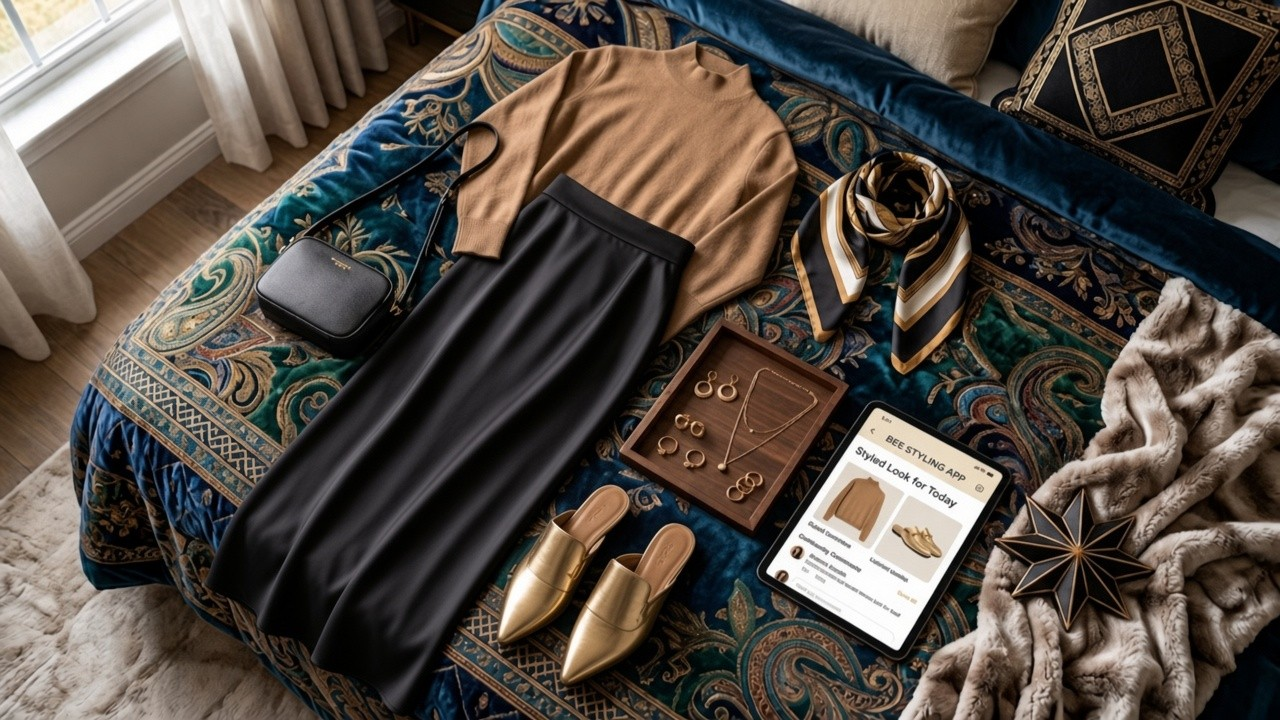
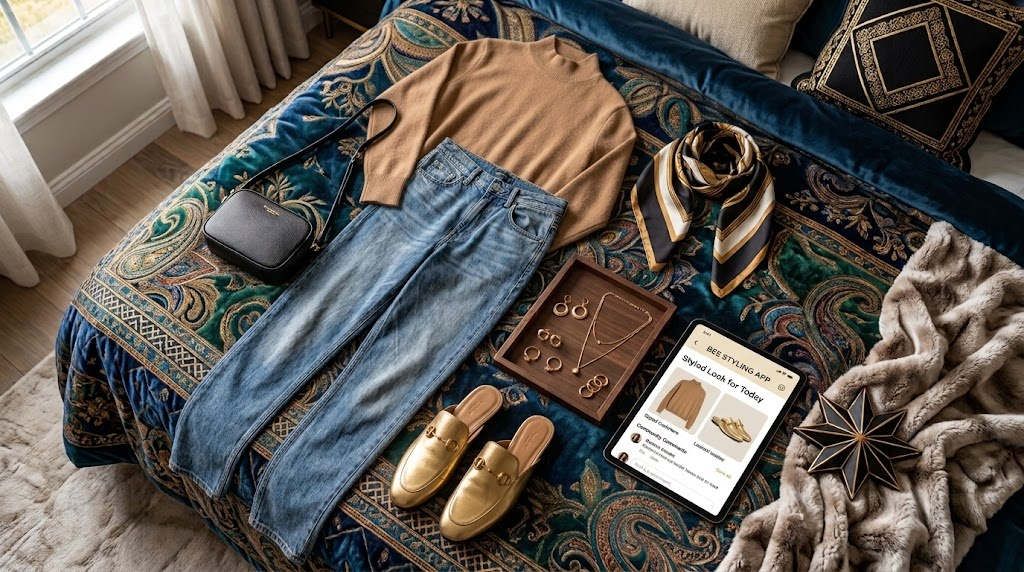
Fill the Bee card with the supplied photograph.
The picture is unchanged. It covers the whole card, and the liquid glass panel stays on the copy.

diff --git a/src/routes/index.tsx b/src/routes/index.tsx
@@ -36,7 +36,7 @@ const PRODUCTS = [
     href: "/app",
     cta: "Enter Bee",
     image: beeHoldingApp,
-    alt: "A look laid out on the bed: camel sweater, black satin skirt, gold mules, scarf, bag, and jewelry, with that look open on the tablet",
+    alt: "A look laid out on the bed: camel sweater, jeans, gold loafers, scarf, bag, and jewelry, with that look open on the tablet",
     mark: "/bee-logo-192.png",
     offers: [
       {
@@ -167,8 +167,13 @@ function HomePage() {
         <section id={product.id} key={product.id} className="scroll-mt-32 bg-white">
           {product.id === "bee" ? (
             <div className="mx-auto max-w-[1180px] px-5 pt-28 md:px-8 md:pt-32">
-              <article className="glass overflow-hidden rounded-[2rem] md:grid md:min-h-[640px] md:grid-cols-[minmax(0,0.85fr)_minmax(0,1.15fr)]">
-                <div className="relative z-10 flex items-center px-7 py-10 md:px-12 md:py-12">
+              <article className="relative min-h-[640px] overflow-hidden rounded-[2rem]">
+                <img
+                  src={product.image}
+                  alt={product.alt}
+                  className="absolute inset-0 h-full w-full object-cover object-center"
+                />
+                <div className="relative z-10 flex min-h-[640px] items-center px-7 py-10 md:px-12 md:py-12">
                   <div className="glass max-w-xl rounded-[2rem] px-7 py-8 text-black md:px-10 md:py-10">
                     <div className="flex items-center gap-4">
                       <img src={product.mark} alt="" className="h-14 w-14 rounded-full" />
@@ -185,13 +190,6 @@ function HomePage() {
                       {product.promise}
                     </p>
                   </div>
-                </div>
-                <div className="relative md:min-h-full">
-                  <img
-                    src={product.image}
-                    alt={product.alt}
-                    className="h-auto w-full object-contain md:absolute md:inset-0 md:h-full md:object-cover md:object-[68%_center]"
-                  />
                 </div>
               </article>
             </div>
